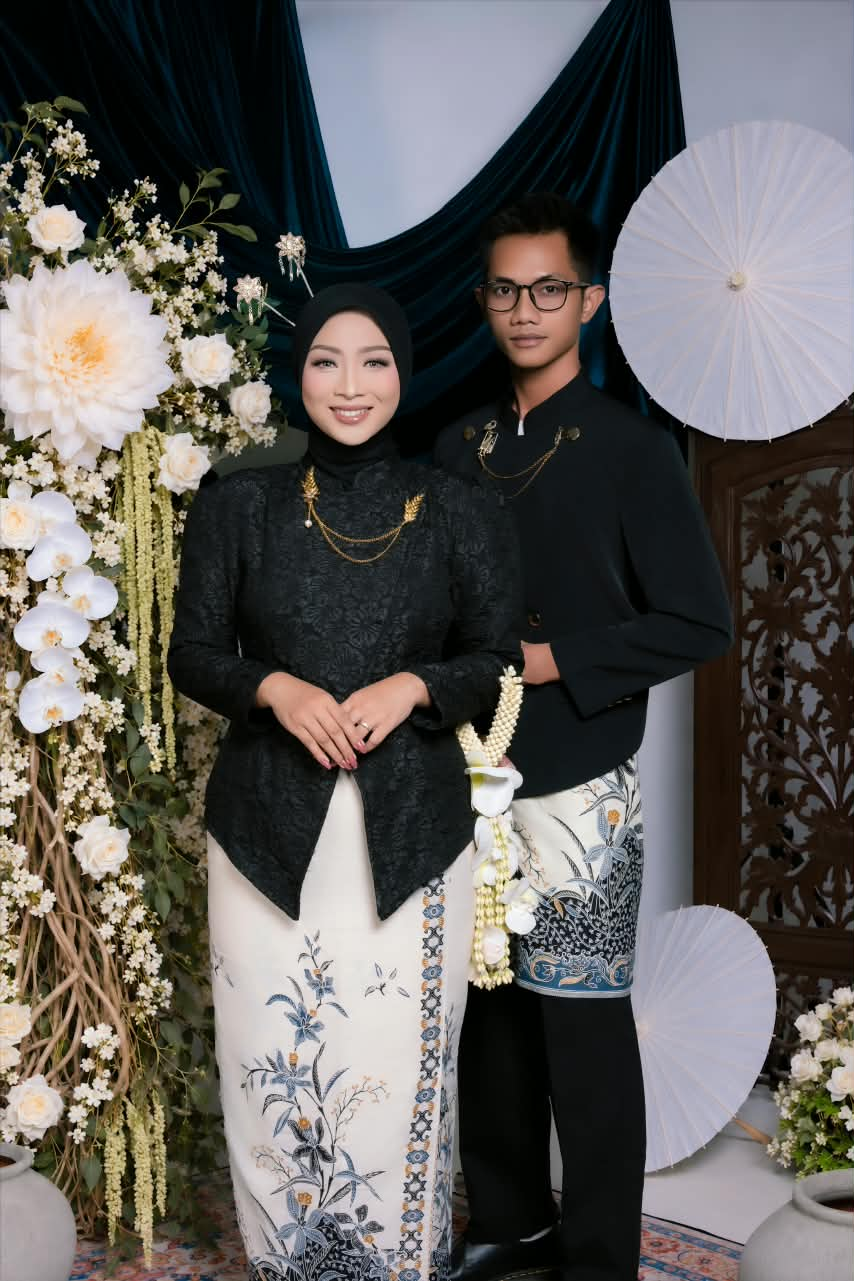
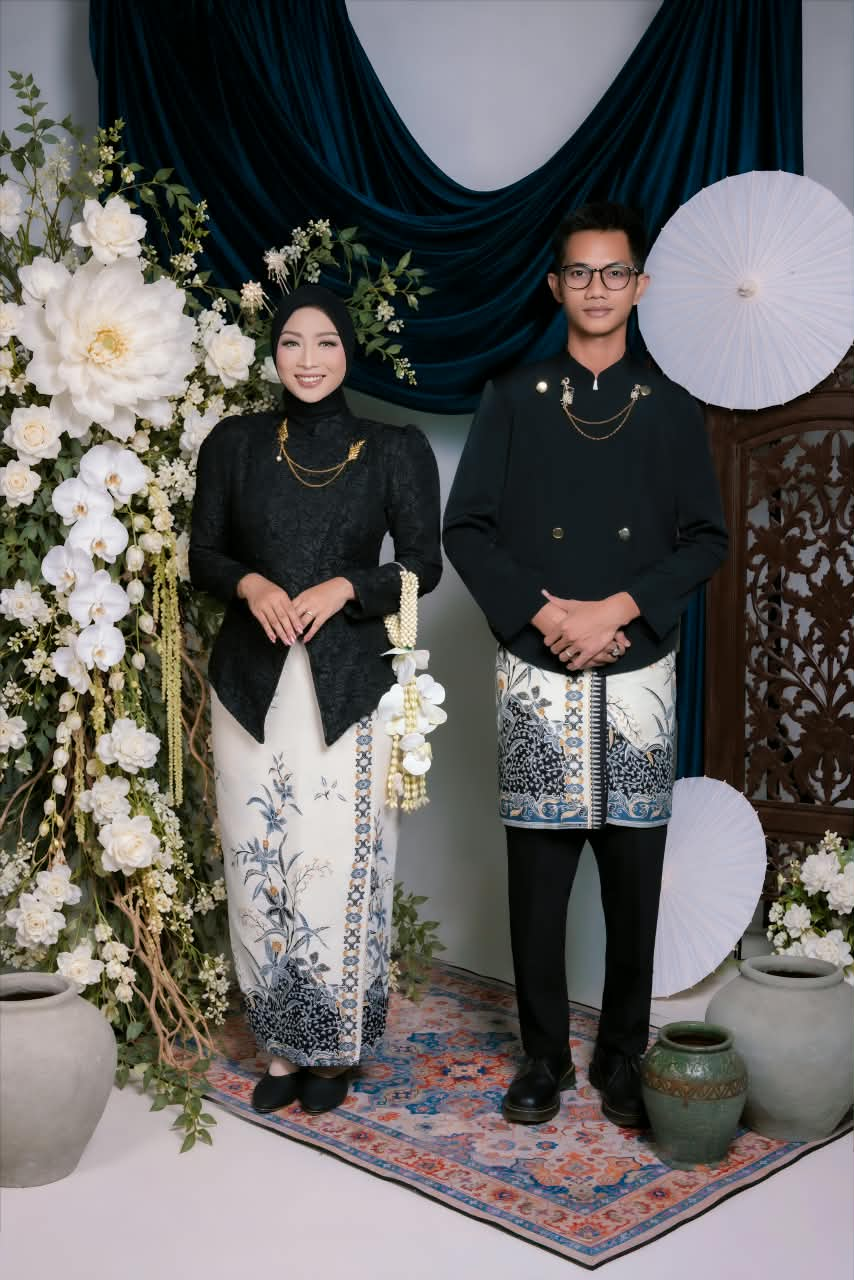
Wedding-Invitation V3

diff --git a/src/lib/config.ts b/src/lib/config.ts
@@ -115,23 +115,50 @@ export const weddingConfig: WeddingConfig = {
   stories: [
     {
       title: "Awal Pertemuan",
-      date: "Oktober 2020",
-      description: "Pertemuan pertama yang tak disengaja berawal dari lingkaran pertemanan yang sama, menyisakan percakapan hangat yang berkesan.",
+      date: "2024 - 25 MARET 2026",
+      description: `Ada pagi yang tak pernah benar-benar berlalu dari ingatan Fidyan.
+
+Tahun 2024, di jalan yang sama, di jam yang sama, ia selalu melihat Dinda berangkat mengajar. Tanpa sapaan, tanpa keberanian untuk menyapa. Hanya tatapan dari kejauhan, dan doa yang diam-diam dipanjatkan dalam hati, "Jika ia memang takdirku, pertemukanlah kami di waktu terbaik-Mu."
+
+Waktu berjalan. Hati itu tak pernah padam.
+
+Hingga di akhir 2025, Fidyan akhirnya memberanikan diri untuk memulai komunikasi. Sebuah pesan sederhana, yang ternyata menjadi awal dari segalanya.
+
+Dan pada 25 Maret 2026, takdir menepati janjinya. Pertemuan pertama itu terjadi. Canggung, malu-malu, tapi hangat. Seolah dua hati yang sudah lama saling mencari, akhirnya menemukan jalannya untuk pulang.`,
     },
     {
       title: "Menjalin Komitmen",
-      date: "Mei 2022",
-      description: "Dengan niat yang tulus dan visi masa depan yang seirama, kami memutuskan untuk saling mendampingi dan melangkah lebih serius.",
+      date: "23 MEI 2026",
+      description: `Cinta yang dewasa bukanlah tentang seberapa sering kita tertawa bersama, tapi seberapa yakin kita untuk saling menjaga dalam diam.
+
+Pada 23 Mei 2026, kami tidak lagi sekadar saling menyapa. Kami memilih untuk saling berkomitmen. Untuk saling mendampingi, saling menguatkan, dan saling mendoakan dalam setiap langkah.
+
+Bukan karena kami sempurna, tapi karena kami percaya, cinta yang dijaga karena Allah akan selalu menemukan jalannya untuk abadi.`,
     },
     {
       title: "Lamaran",
-      date: "Desember 2025",
-      description: "Dihadiri keluarga besar tercinta, ikatan suci diresmikan dalam sebuah janji untuk melangkah bersama menuju pernikahan.",
+      date: "27 SEPTEMBER 2026",
+      description: `Ada hari dimana keberanian akhirnya menemukan tempatnya.
+
+27 September 2026, dengan dada yang berdebar dan niat yang tulus, Fidyan datang membawa keluarganya. Bukan hanya membawa cincin, tapi membawa seluruh masa depannya untuk dititipkan kepada Dinda.
+
+Di hadapan keluarga besar tercinta, air mata bahagia menjadi saksi. Sebuah janji terucap, bukan sekadar untuk hari itu, tapi untuk seumur hidup.
+
+Hari itu, Dinda bukan lagi sekadar perempuan yang dilihat setiap pagi dari kejauhan. Ia telah menjadi jawaban dari doa-doa yang selama ini dipanjatkan.`,
     },
     {
       title: "Hari Bahagia",
-      date: "Januari 2027",
-      description: "Atas izin Allah SWT dan restu kedua orang tua, kami menyatukan cinta dalam ikatan suci pernikahan.",
+      date: "HARI BAHAGIA",
+      description: `Sebelas tahun.
+
+Sebelas tahun kami dipisahkan oleh waktu, oleh jarak, oleh cerita yang tak pernah selesai. Kami pernah menjadi dua orang asing yang berjalan di jalan yang berbeda, tanpa tahu bahwa takdir sedang diam-diam menuliskan ulang pertemuan kami.
+
+Dan kini, setelah 11 tahun berpisah, kami dipertemukan kembali. Bukan kebetulan. Ini adalah takdir yang paling indah.
+
+Atas izin Allah SWT dan restu kedua orang tua, kami menyatukan cinta dalam ikatan suci pernikahan. Karena kami percaya, jodoh yang tertulis oleh Allah tidak akan pernah tertukar, hanya menunggu waktu terbaik untuk dipertemukan.
+
+Dari tatapan di pagi hari, menjadi janji seumur hidup.
+Setelah 11 tahun terpisah, akhirnya kita pulang, ke hati yang sama.`,
     },
   ],
 };

diff --git a/src/components/Story.tsx b/src/components/Story.tsx
@@ -38,9 +38,9 @@ export default function Story() {
                 <h4 className="font-serif text-base sm:text-lg font-semibold text-white">
                   {story.title}
                 </h4>
-                <p className="text-xs text-mauve-100 font-light leading-relaxed">
+                <div className="text-xs text-mauve-100/95 font-light leading-relaxed whitespace-pre-line space-y-2 pt-1 font-sans">
                   {story.description}
-                </p>
+                </div>
               </div>
             </div>
           ))}
